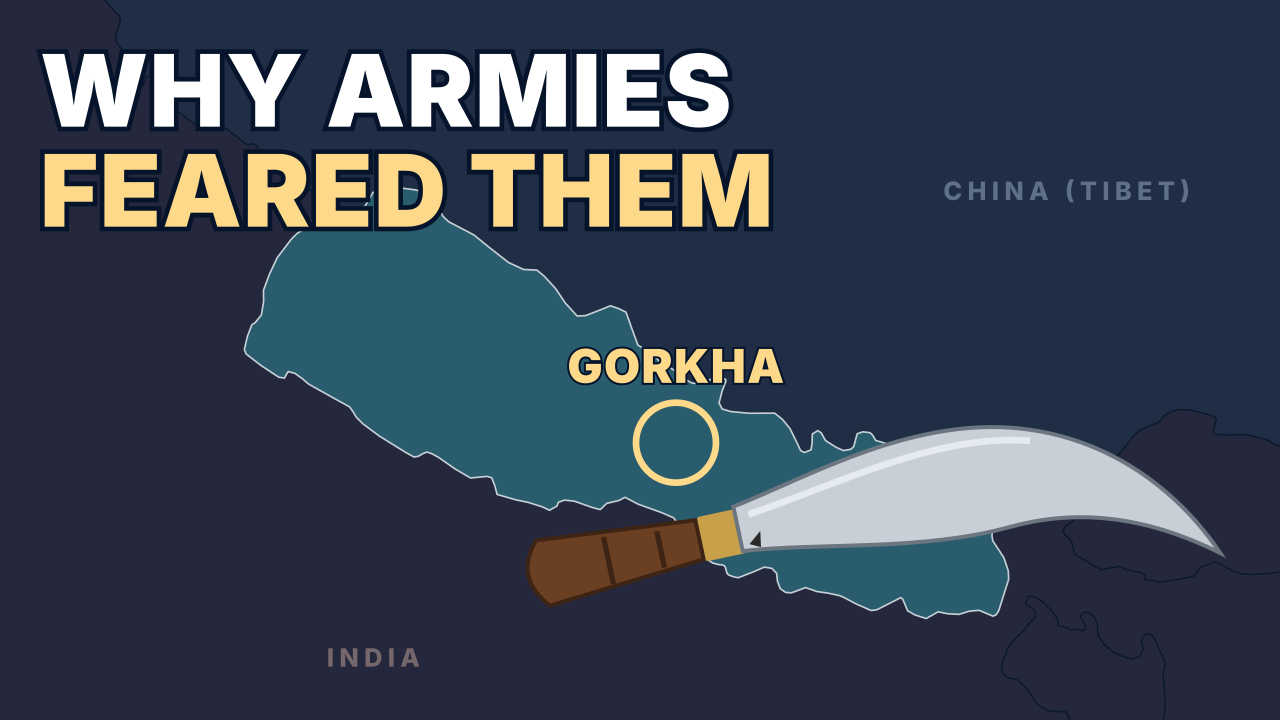
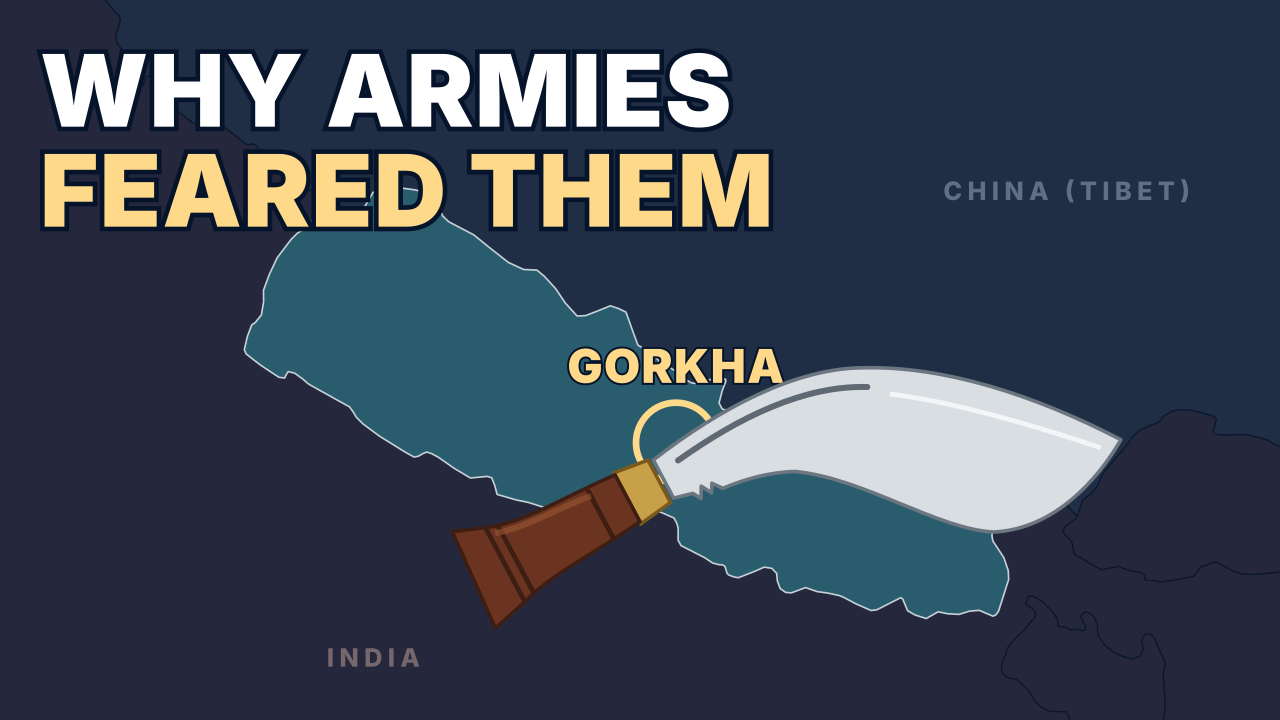
Ep003: realistic khukuri shape (per Santosh's photo); Shorts retitled as questions
Claude-Session: https://claude.ai/code/session_01X1udSoi6zwngHGD1zwtgVN

Changed region(s): [[0.3438, 0.4889, 0.9688, 0.8861]]

diff --git a/episodes/003-gurkhas/scenes.py b/episodes/003-gurkhas/scenes.py
@@ -8,14 +8,19 @@ KHAKI = "#B9A576"; RED = "#C8553D"; NEP = "#2F6A7A"
 PZ = projector(79.5, 25.6, 89.0, 31.2, 60, 150, 1860, 1050)
 
 def khukuri(x, y, s=1.0, rot=-20, op=1, sheath=False):
-    """Stylised khukuri: forward-curved blade, notch (cho) near the handle, wooden handle with brass bolster."""
-    blade = (f'<path d="M0 0 C60 -10 150 -40 230 -10 C290 12 330 60 350 110 C300 70 250 55 200 58 C130 62 60 40 0 34Z" '
-             f'fill="#C9CFD6" stroke="#6C7680" stroke-width="3"/>'
-             f'<path d="M10 8 C80 0 160 -22 228 -2" stroke="#EEF2F5" stroke-width="5" fill="none" opacity="0.8"/>'
-             f'<path d="M6 30 l10 -8 l-2 12z" fill="#2A2A2A"/>')
-    handle = ('<rect x="-30" y="2" width="34" height="34" rx="4" fill="#C9A04A"/>'
-              '<path d="M-30 4 L-150 -6 Q-172 18 -150 44 L-30 34Z" fill="#6B3F22" stroke="#3E2414" stroke-width="3"/>'
-              '<path d="M-60 6 L-60 34 M-100 2 L-100 38" stroke="#3E2414" stroke-width="4"/>')
+    """Khukuri (checked against a real photo, 9 Nov 2026): blade bends DOWN at an 'elbow', spine is the
+    outer convex curve, edge is the inner side with a wide belly near the tip, cho notch at the base of
+    the edge, brass bolster, wooden handle with rings and a flared butt."""
+    blade = ('<path d="M0 0 C70 -12 140 -12 190 14 C250 44 305 100 352 168 C320 188 268 208 222 186 '
+             'C182 162 148 96 100 64 C80 54 60 50 40 48 L34 40 L30 47 L25 38 L20 47 L16 40 L0 36Z" '
+             'fill="#D9DEE3" stroke="#6C7680" stroke-width="3" stroke-linejoin="round"/>'
+             '<path d="M18 10 C80 2 140 4 186 30" stroke="#5F6973" stroke-width="5" fill="none" stroke-linecap="round"/>'
+             '<path d="M200 44 C245 76 290 120 334 166" stroke="#FFFFFF" stroke-width="4" fill="none" opacity="0.7"/>')
+    handle = ('<path d="M-4 -2 L-34 -6 L-34 42 L-4 38Z" fill="#C9A04A" stroke="#7A5A1A" stroke-width="3"/>'
+              '<path d="M-34 -4 C-80 -8 -120 -4 -150 -16 L-176 -26 L-182 62 L-150 54 '
+              'C-120 44 -80 46 -34 40Z" fill="#6B3420" stroke="#3E1E12" stroke-width="3"/>'
+              '<path d="M-150 -16 L-150 54 M-140 -12 L-140 50 M-60 -4 L-60 42" stroke="#3E1E12" stroke-width="4"/>'
+              '<path d="M-60 2 C-90 -2 -120 0 -145 -8" stroke="#9A5634" stroke-width="5" fill="none" opacity="0.6"/>')
     return f'<g opacity="{op:.2f}" transform="translate({x:.0f} {y:.0f}) rotate({rot}) scale({s:.3f})">{handle}{blade}</g>'
 
 def nepal_map(op=1):

diff --git a/episodes/003-gurkhas/thumbs.py b/episodes/003-gurkhas/thumbs.py
@@ -16,12 +16,12 @@ def save(body, out):
 a = S.nepal_map(1) + dim(0.15)
 G = S.PZ(84.63, 28.0)
 a += f'<circle cx="{G[0]:.0f}" cy="{G[1]:.0f}" r="60" fill="none" stroke="{GOLD}" stroke-width="10"/>' + big(G[0], G[1] - 90, "GORKHA", 70, GOLD)
-a += S.khukuri(1100, 760, 2.0, -12)
+a += S.khukuri(980, 690, 1.8, -28)
 a += big(60, 190, "WHY ARMIES", 150, WHITE, "start") + big(60, 340, "FEARED THEM", 150, GOLD, "start")
 save(DEFS + a, "thumb_a.png")
 # B: character-led
 b = DEFS + PAINT("g_end") + shade(0.5)
-b += warm(character(1350, 960, 1.35, GURKHA, 0.5, gesture=0.9)) + S.khukuri(1530, 300, 1.2, -40)
+b += warm(character(1350, 960, 1.35, GURKHA, 0.5, gesture=0.9)) + S.khukuri(1330, 300, 1.1, -25)
 b += big(80, 300, "THE", 120, WHITE, "start") + big(80, 470, "GURKHAS", 190, GOLD, "start")
 save(b, "thumb_b.png")
 # C: big question

diff --git a/episodes/004-death-zone/upload.md b/episodes/004-death-zone/upload.md
@@ -41,12 +41,12 @@ Narration uses an AI voice. Visuals include AI-generated painted backgrounds; ma
 **Schedule:** Friday 13 Nov 2026, 18:00 Nepal time
 
 ## Short 1 (short_whystay.mp4) — clip 2:20.3–3:08.5
-**Title:** Why Bodies Are Left on Everest #shorts
+**Title:** Why Are Bodies Left on Everest? #shorts
 **Description:** Weight, ice, time, weather, cost: why most climbers who die on Everest can't be brought down. Full story on the channel. Narration uses an AI voice. Visuals include AI-generated painted backgrounds. #Everest #DeathZone #shorts
 **Schedule:** Saturday 14 Nov, 18:00 NPT
 
 ## Short 2 (short_greenboots.mp4) — clip 3:18.2–3:54.3
-**Title:** Everest's "Green Boots" Finally Identified #shorts
+**Title:** Who Was Everest's "Green Boots"? #shorts
 **Description:** For decades, climbers passed a landmark called Green Boots. In 2026 a DNA test named him. Full story on the channel. Narration uses an AI voice. Visuals include AI-generated painted backgrounds. #Everest #shorts
 **Schedule:** Monday 16 Nov, 18:00 NPT
 
@@ -54,10 +54,10 @@ Narration uses an AI voice. Visuals include AI-generated painted backgrounds; ma
 Sources (full links): see sources.md list. Question: Would you ever climb into the death zone?
 
 ## Short 3 (short_body.mp4) — clip 1:14.9–1:47.8
-**Title:** What the Death Zone Does to Your Body #shorts
+**Title:** What Happens to Your Body on Everest? #shorts
 **Description:** Above 8,000 m, blood oxygen drops to levels doctors see in patients close to death. Full story on the channel. Narration uses an AI voice. Visuals include AI-generated painted backgrounds. #Everest #shorts
 
 ## Short 4 (short_mallory.mp4) — clip 3:54.7–4:27.8
-**Title:** Everest's Oldest Mystery: Mallory and Irvine #shorts
+**Title:** Did Mallory Reach Everest's Top First? #shorts
 **Description:** 1924: two climbers vanished near the top. In 2024 a boot was found. Did they summit first? Full story on the channel. Narration uses an AI voice. Visuals include AI-generated painted backgrounds. #Everest #shorts
 (Schedule: see episode 003 upload.md — all 7 Shorts listed there.)

diff --git a/episodes/003-gurkhas/upload.md b/episodes/003-gurkhas/upload.md
@@ -42,12 +42,12 @@ Narration uses an AI voice. Visuals include AI-generated painted backgrounds; ma
 **Schedule:** Tuesday 10 Nov 2026, 18:00 Nepal time
 
 ## Short 1 (short_khukuri.mp4) — clip 2:05.9–2:43.8
-**Title:** The Gurkha Knife Myth #shorts
+**Title:** Must a Khukuri Draw Blood? #shorts
 **Description:** Does a khukuri really have to draw blood once it's drawn? The Brigade of Gurkhas says no. Full story on the channel. Narration uses an AI voice. Visuals include AI-generated painted backgrounds. #Gurkha #Nepal #shorts
 **Schedule:** Wednesday 11 Nov, 18:00 NPT (after the main video)
 
 ## Short 2 (short_lachhiman.mp4) — clip 3:26.8–4:04.7
-**Title:** One Hand, Four Hours: Lachhiman Gurung VC #shorts
+**Title:** How He Fought On With One Hand #shorts
 **Description:** Burma, May 1945: a wounded Gurkha rifleman held his trench alone for four hours. Full story on the channel. Narration uses an AI voice. Visuals include AI-generated painted backgrounds. #Gurkha #VictoriaCross #shorts
 **Schedule:** Thursday 12 Nov, 18:00 NPT
 
@@ -55,7 +55,7 @@ Narration uses an AI voice. Visuals include AI-generated painted backgrounds; ma
 Sources (full links): see sources.md list. Question: Is there a Gurkha in your family? Which regiment?
 
 ## Short 3 (short_kulbir.mp4) — clip 2:44.2–3:26.8
-**Title:** The First Gurkha Victoria Cross #shorts
+**Title:** Why He Carried a Wounded Soldier Home #shorts
 **Description:** France, 1915: Rifleman Kulbir Thapa refused to leave a wounded British soldier. Full story on the channel. Narration uses an AI voice. Visuals include AI-generated painted backgrounds. #Gurkha #shorts
 
 ## Shorts schedule (7 a week, one a day 18:00 NPT; 12:00 on main-video days)
